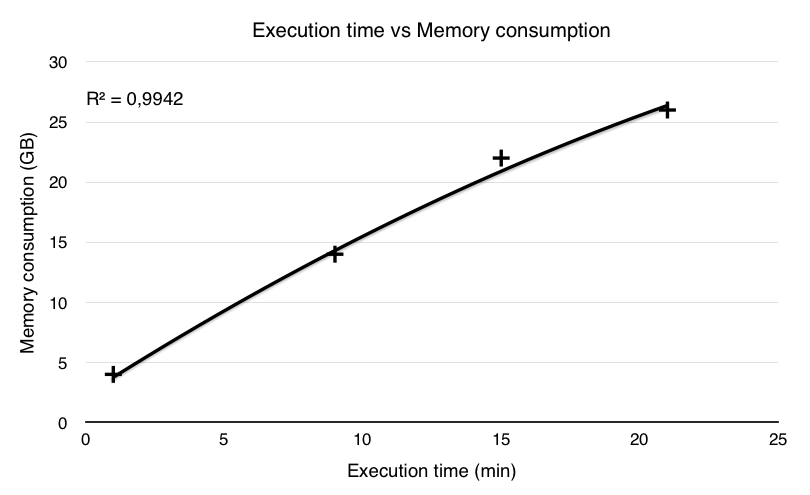
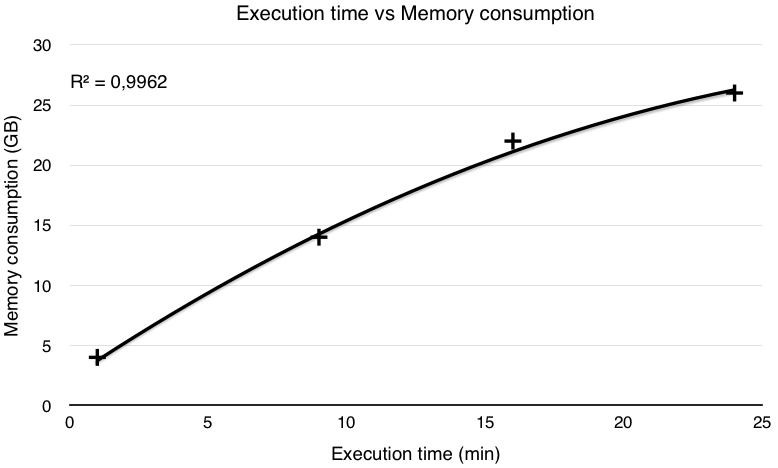
replace graphs in CH4

diff --git a/src/model-inference/2_production-systems.tex b/src/model-inference/2_production-systems.tex
@@ -1235,10 +1235,10 @@ $C_2$ &       &           &         &   &   &  7,824 &  80   &   \\
 $D_1$ & 11    & 3,851,264 & 73,364  & 2 & 3 & 35,541 & 924   & 9 \\
 $D_2$ &       &           &         &   &   & 17,402 & 837   &   \\
 \hline
-$E_1$ & 20    & 7,635,494 & 134,908 & 2 & 3 & 61,795 & 1,441 & 15 \\
+$E_1$ & 20    & 7,635,494 & 134,908 & 2 & 3 & 61,795 & 1,441 & 16 \\
 $E_2$ &       &           &         &   &   & 35,799 & 1,401 &    \\
 \hline
-$F_1$ & 23    & 9,231,160 & 161,035 & 2 & 3 & 77,058 & 1,587 & 21 \\
+$F_1$ & 23    & 9,231,160 & 161,035 & 2 & 3 & 77,058 & 1,587 & 24 \\
 $F_2$ &       &           &         &   &   & 43,536 & 1,585 &    \\
 \hline
 \end{tabular}
